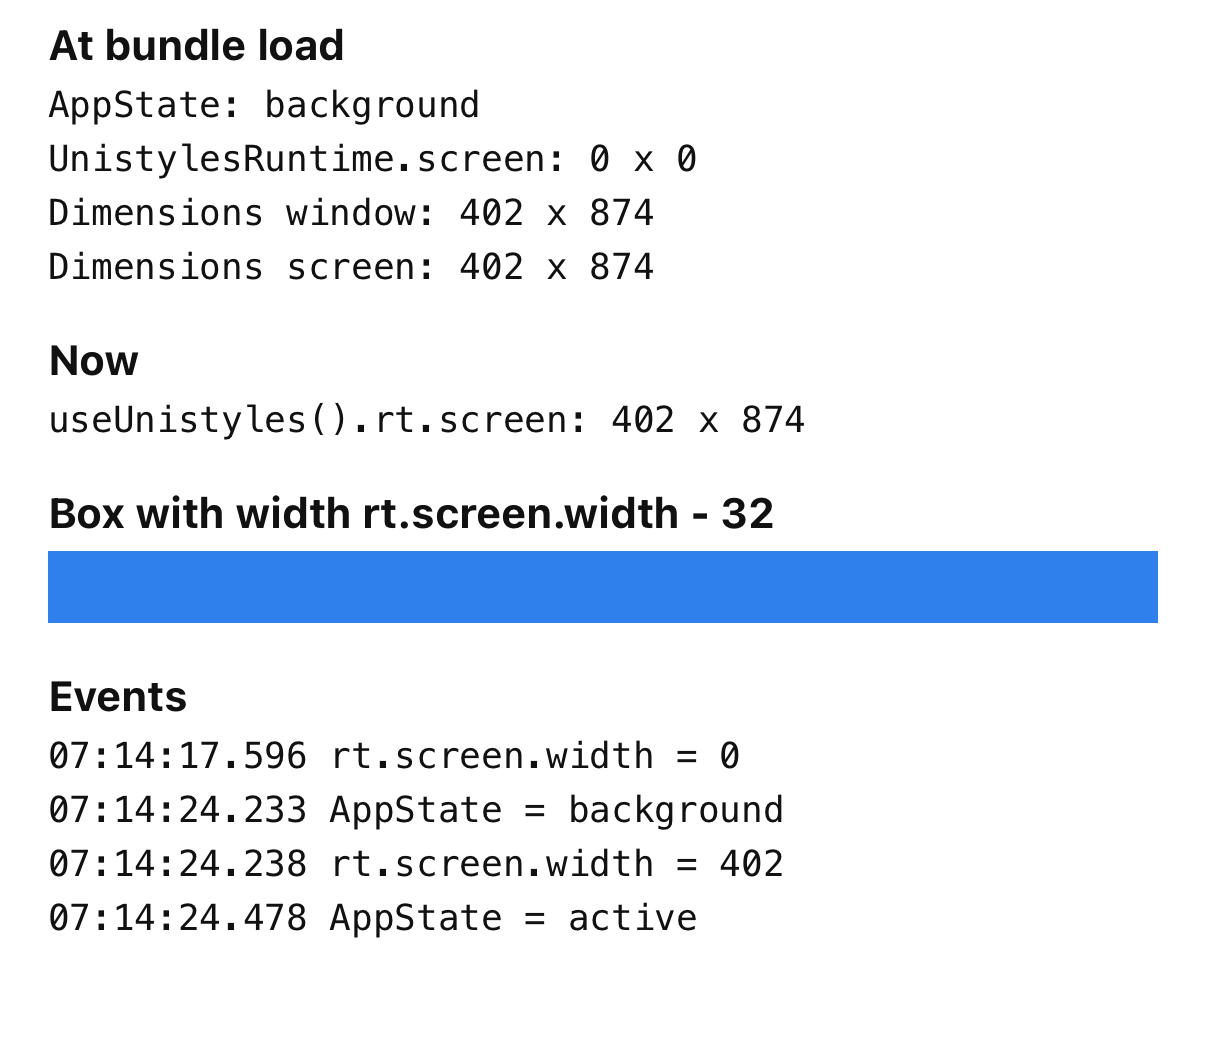
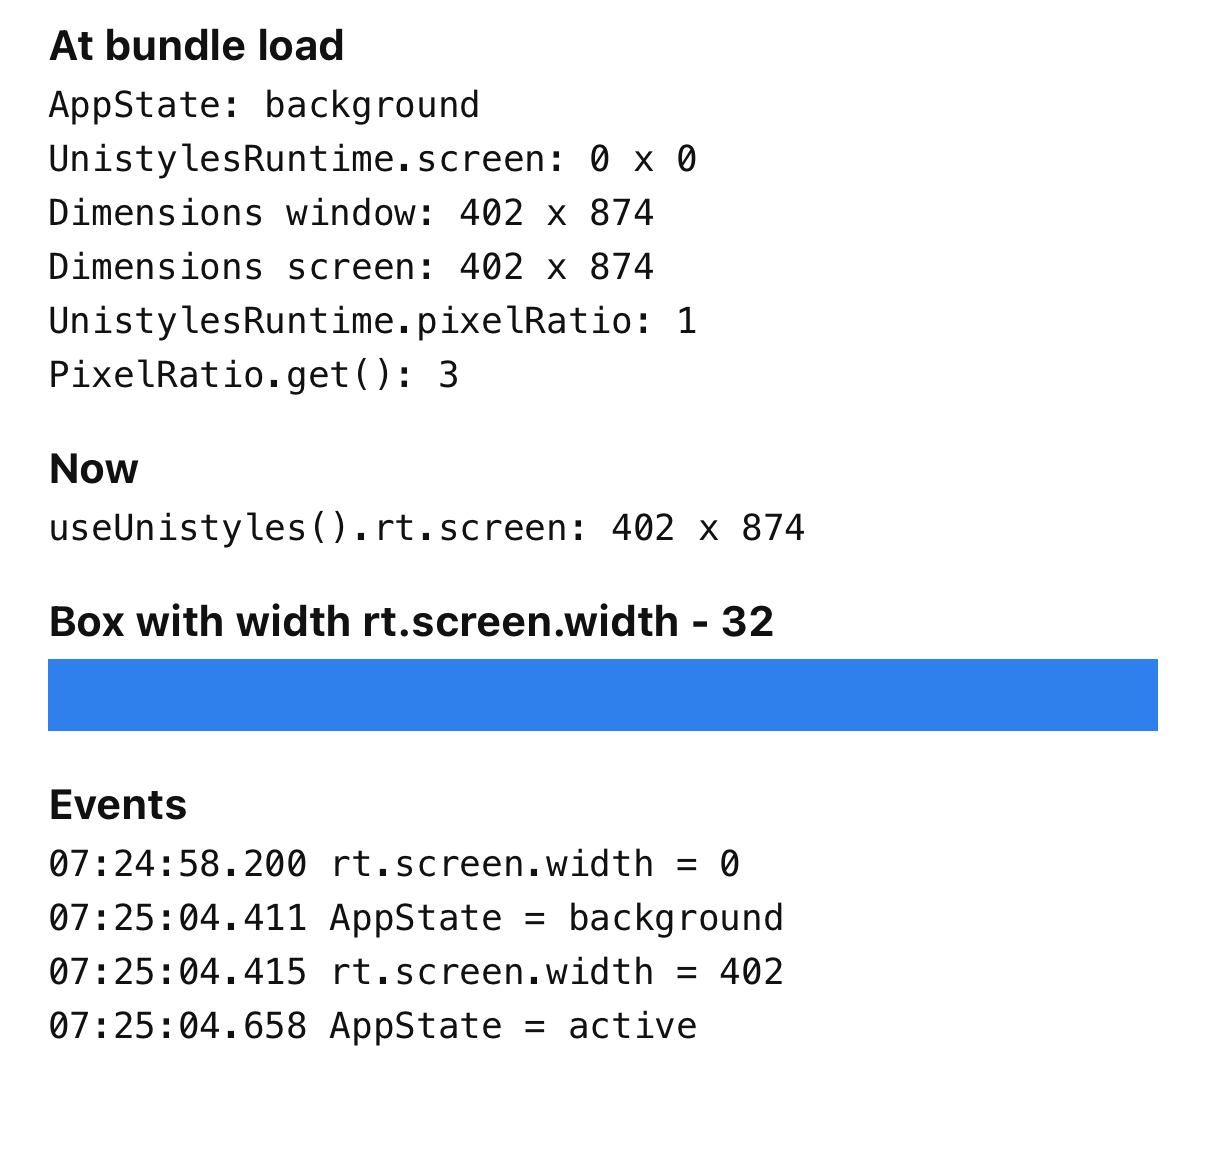
Show pixelRatio in the launch snapshot, add the with-fix screenshot

Changed region(s): [[0.0307, 0.0305, 0.9818, 0.9143]]

diff --git a/src/App.tsx b/src/App.tsx
@@ -29,6 +29,8 @@ export default function App() {
       <Text style={styles.line}>UnistylesRuntime.screen: {size(launchSnapshot.unistylesScreen)}</Text>
       <Text style={styles.line}>Dimensions window: {size(launchSnapshot.rnWindow)}</Text>
       <Text style={styles.line}>Dimensions screen: {size(launchSnapshot.rnScreen)}</Text>
+      <Text style={styles.line}>UnistylesRuntime.pixelRatio: {launchSnapshot.unistylesPixelRatio}</Text>
+      <Text style={styles.line}>PixelRatio.get(): {launchSnapshot.rnPixelRatio}</Text>
 
       <Text style={styles.title}>Now</Text>
       <Text style={styles.line}>useUnistyles().rt.screen: {size(rt.screen)}</Text>

diff --git a/src/launchSnapshot.ts b/src/launchSnapshot.ts
@@ -1,10 +1,12 @@
-import { AppState, Dimensions } from 'react-native'
+import { AppState, Dimensions, PixelRatio } from 'react-native'
 import { UnistylesRuntime } from 'react-native-unistyles'
 
 // Read once when the JS bundle loads, the same way a module-level constant would.
 export const launchSnapshot = {
   appState: AppState.currentState,
   unistylesScreen: { ...UnistylesRuntime.screen },
+  unistylesPixelRatio: UnistylesRuntime.pixelRatio,
   rnWindow: Dimensions.get('window'),
   rnScreen: Dimensions.get('screen'),
+  rnPixelRatio: PixelRatio.get(),
 }

diff --git a/README.md b/README.md
@@ -2,7 +2,7 @@
 
 Minimal repro for `UnistylesRuntime.screen` returning `{ width: 0, height: 0 }` when iOS launches the app in the background.
 
-`src/launchSnapshot.ts` reads `UnistylesRuntime.screen` and React Native's `Dimensions` once, when the JS bundle loads. `src/App.tsx` shows that snapshot, the live `useUnistyles().rt.screen`, and a log of every `rt.screen.width` and `AppState` change.
+`src/launchSnapshot.ts` reads `UnistylesRuntime.screen`, `UnistylesRuntime.pixelRatio` and their React Native counterparts once, when the JS bundle loads. `src/App.tsx` shows that snapshot, the live `useUnistyles().rt.screen`, and a log of every `rt.screen.width` and `AppState` change.
 
 Expo 57, React Native 0.86.3, react-native-unistyles 3.5.2, react-native-nitro-modules 0.37.1.
 
@@ -35,4 +35,4 @@ Background launch, then opened:
 
 <img src="evidence/background-launch.png" width="400">
 
-At bundle load, `AppState` is `background`, `UnistylesRuntime.screen` is `0 x 0` and `Dimensions` is `402 x 874`. `rt.screen.width` changes to 402 when the app comes to the foreground.
+At bundle load, `AppState` is `background`, `UnistylesRuntime.screen` is `0 x 0` and `UnistylesRuntime.pixelRatio` is `1`, while `Dimensions` is `402 x 874` and `PixelRatio.get()` is `3`. `rt.screen.width` changes to 402 when the app comes to the foreground.
